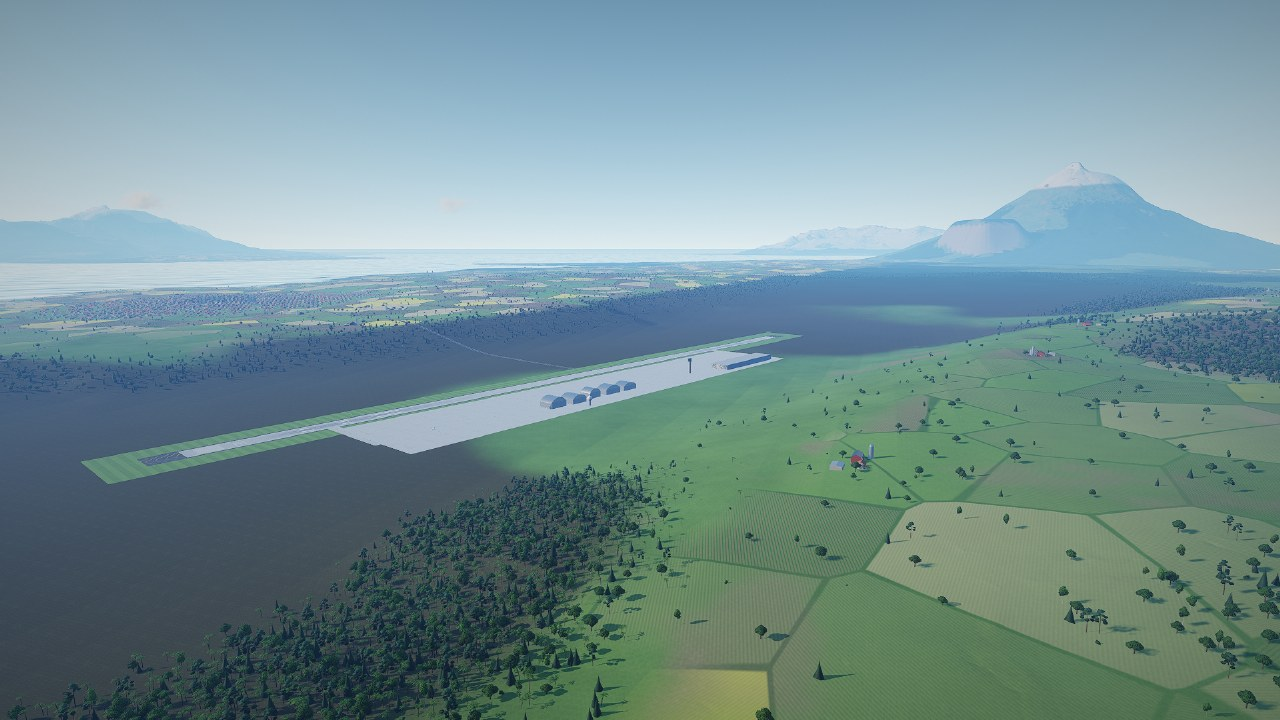
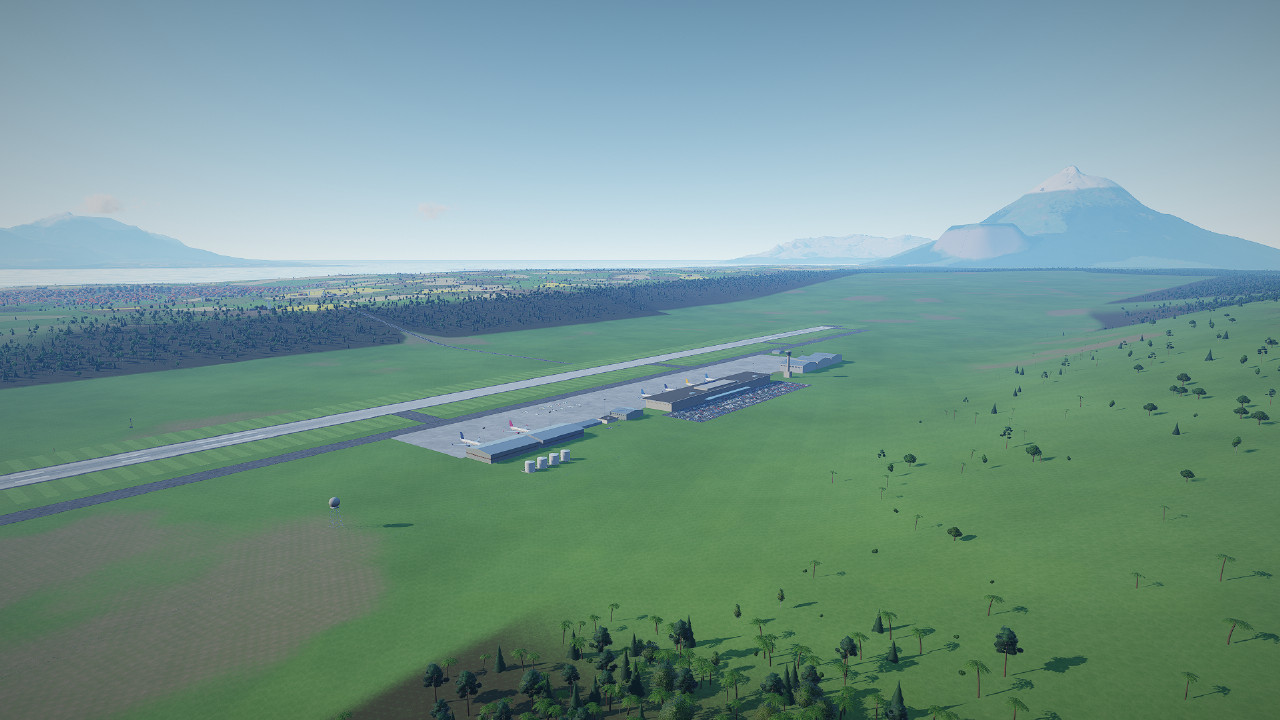
Loading screens: the owner's GPU renders become the shipped defaults
All 16 airports re-rendered plus in-flight pictures for every aircraft
(air_0 .. air_8; air_0-4 are new). From render_loading.bat's 1280x720 PNGs,
stored as JPEG q90 4:4:4 (25 files, 4.7 MB). A player's own renders (.png)
still take precedence over these.

Claude-Session: https://claude.ai/code/session_01PPEE1yZfPborst3wkozCEL

diff --git a/RELEASE_NOTES.md b/RELEASE_NOTES.md
@@ -1,2 +1,4 @@
 ## What's new
 
+**Loading screens**
+- New pre-rendered loading pictures for all 16 airports, and an in-flight picture for every aircraft (the Kestrel, Wren, Bushmaster, Islander and Pelican now have their own too)
